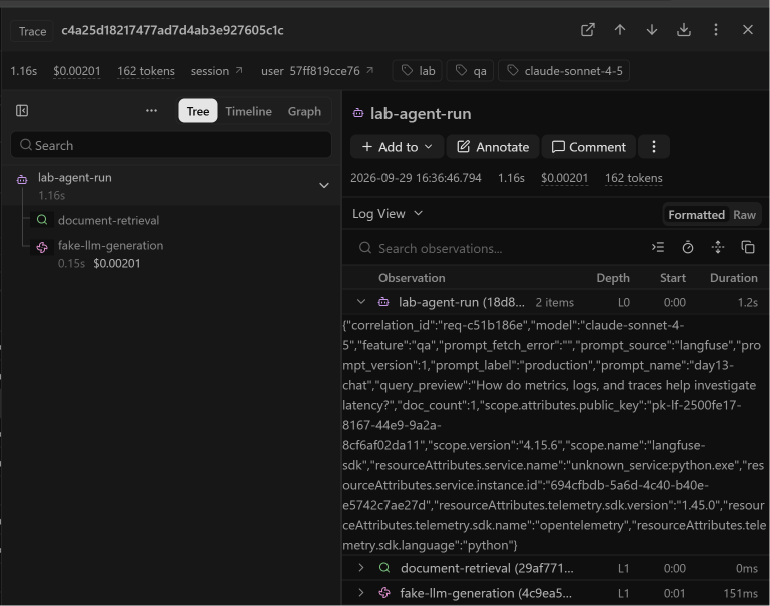
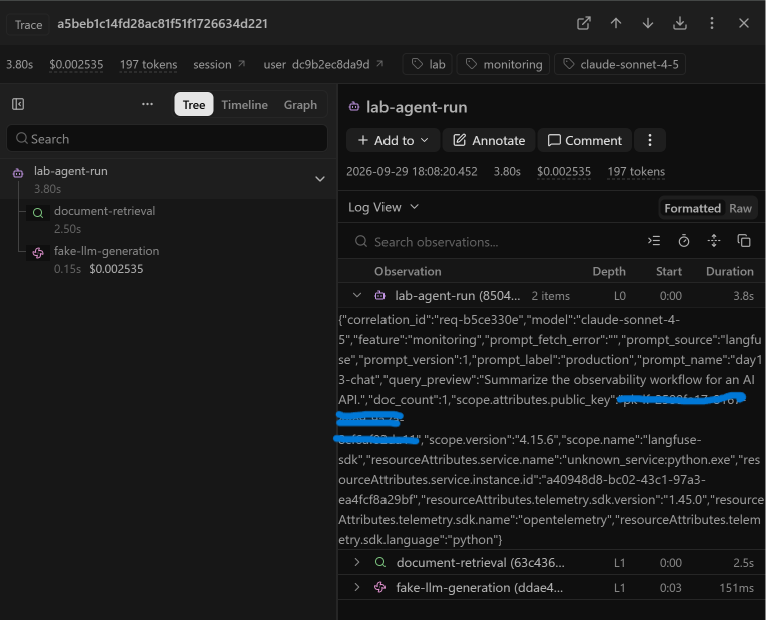
Complete CP4 submission report and evidence

diff --git a/submission/REPORT.md b/submission/REPORT.md
@@ -4,13 +4,13 @@
 
 ## 1. Thông tin học viên
 
-- **Họ và tên:**
-- **MSSV:**
+- **Họ và tên:** Nguyễn Anh Tú
+- **MSSV:** 2A202602881
 - **Lớp:** K4-L3A
-- **Repository URL:**
+- **Repository URL:** https://github.com/nguyenanhtu205/K4-L3-DAY13-NguyenAnhTu-2A202602881-Monitoring-LLMOps
 - **Commit SHA cuối:**
-- **Challenge ID:**
-- **Tên project Langfuse cá nhân:** `day13-k4-l3a-<MSSV>`
+- **Challenge ID:** day13-k4-l3a-monitoring-llmops-v1
+- **Tên project Langfuse cá nhân:** `day13-k4-l3a-2A202602881`
 
 ## 2. Evidence index
 
@@ -20,36 +20,37 @@
 
 | Evidence | Đường dẫn |
 |---|---|
-| API health CP0 | `evidence/00-health.png` |
-| Load test CP0 | `evidence/00-load-test.png` |
-| Pytest CP0 / CP1 | `evidence/01-pytest.png`; `evidence/01-pytest-cp1.txt` |
-| Log validator CP0 / CP1 | `evidence/02-log-validator.png`; `evidence/02-log-validator-cp1.txt` |
-| Dashboard validator | `evidence/03-dashboard-validator.png` (baseline); `evidence/03-dashboard-validator-cp2.png` (CP2) |
-| Structured log CP1 | `evidence/04-structured-log.txt` |
-| PII redaction CP1 | `evidence/05-pii-redaction.txt` |
-| Trace list CP0 | `evidence/06-trace-list.png` |
-| Trace list CP2 | `evidence/cp2-trace-list.png` |
-| CP2 traces and tree validation (10 traces) | `evidence/cp2-generated-traces.csv`; `evidence/cp2-trace-validation.txt` |
-| Trace waterfall screenshot | `evidence/07-trace-waterfall.png`; API verification: `evidence/cp2-trace-validation.txt` |
-| Trace metadata | `evidence/08-trace-metadata.png`; API verification: `evidence/cp2-trace-validation.txt`; `evidence/cp2-prompt-versioning.txt` |
-| Prompt versions and label runs | `evidence/09-prompt-versions.png`; `evidence/cp2-prompt-versioning.txt` |
-| Prompt rollback | `evidence/10-prompt-rollback.png`; `evidence/cp2-prompt-versioning.txt` |
-| Dashboard runtime | `evidence/11-dashboard-overview.png` (full dashboard); split screenshots: `evidence/11-dashboard-overview-top.png`, `evidence/11-dashboard-overview-bottom.png` |
-| Incident metric | `evidence/12-incident-metric.png` |
-| Incident log | `evidence/13-incident-log.png` |
-| Incident trace | `evidence/14-incident-trace.png` |
+| API health CP0 | [00-health.png](evidence/00-health.png) |
+| Load test CP0 | [00-load-test.png](evidence/00-load-test.png) |
+| Pytest CP0 / CP1 / final | [01-pytest.png](evidence/01-pytest.png); [01-pytest-cp1.txt](evidence/01-pytest-cp1.txt); [01-pytest-final.txt](evidence/01-pytest-final.txt) |
+| Log validator CP0 / CP1 / final | [02-log-validator.png](evidence/02-log-validator.png); [02-log-validator-cp1.txt](evidence/02-log-validator-cp1.txt); [02-log-validator-final.txt](evidence/02-log-validator-final.txt) |
+| Dashboard validator | [03-dashboard-validator.png](evidence/03-dashboard-validator.png) (baseline); [03-dashboard-validator-cp2.png](evidence/03-dashboard-validator-cp2.png) (CP2); [03-dashboard-validator-final.txt](evidence/03-dashboard-validator-final.txt) |
+| Structured log CP1 | [04-structured-log.txt](evidence/04-structured-log.txt) |
+| PII redaction CP1 | [05-pii-redaction.txt](evidence/05-pii-redaction.txt) |
+| Trace list CP0 | [06-trace-list.png](evidence/06-trace-list.png) |
+| Trace list CP2 | [cp2-trace-list.png](evidence/cp2-trace-list.png) |
+| CP2 traces and tree validation (10 traces) | [cp2-generated-traces.csv](evidence/cp2-generated-traces.csv); [cp2-trace-validation.txt](evidence/cp2-trace-validation.txt) |
+| Trace waterfall screenshot | [07-trace-waterfall.png](evidence/07-trace-waterfall.png); API verification: [cp2-trace-validation.txt](evidence/cp2-trace-validation.txt) |
+| Trace metadata | [08-trace-metadata.png](evidence/08-trace-metadata.png); API verification: [cp2-trace-validation.txt](evidence/cp2-trace-validation.txt); [cp2-prompt-versioning.txt](evidence/cp2-prompt-versioning.txt) |
+| Prompt versions and label runs | [09-prompt-versions.png](evidence/09-prompt-versions.png); [cp2-prompt-versioning.txt](evidence/cp2-prompt-versioning.txt) |
+| Prompt rollback | [10-prompt-rollback.png](evidence/10-prompt-rollback.png); [cp2-prompt-versioning.txt](evidence/cp2-prompt-versioning.txt) |
+| Dashboard runtime | [11-dashboard-overview.png](evidence/11-dashboard-overview.png) (full dashboard); split screenshots: [11-dashboard-overview-top.png](evidence/11-dashboard-overview-top.png), [11-dashboard-overview-bottom.png](evidence/11-dashboard-overview-bottom.png) |
+| Incident metric | [12-incident-metric.png](evidence/12-incident-metric.png) |
+| Incident log | [13-incident-log.png](evidence/13-incident-log.png) |
+| Incident trace | [14-incident-trace.png](evidence/14-incident-trace.png) |
+| CP3 challenge load and incident cleanup | [cp3-load-test.txt](evidence/cp3-load-test.txt); [cp3-incident-control.txt](evidence/cp3-incident-control.txt) |
 
 ## 3. Kết quả kỹ thuật
 
 | Nội dung | Baseline | Kết quả cuối | Nhận xét |
 |---|---|---|---|
-| `validate_logs.py` | 30/100; 61 records, 60 thiếu required fields/enrichment, 0 unique correlation IDs | | Baseline trước CP1; PII scrubber pass |
-| `validate_dashboard.py` | 6/6 panel hợp lệ | | Baseline |
-| `pytest` | 22 passed | | Baseline |
+| `validate_logs.py` | 30/100; 61 records, 60 thiếu required fields/enrichment, 0 unique correlation IDs | 100/100; 42 records, 21 correlation IDs, 0 thiếu required fields/enrichment, 0 PII leak | Kiểm tra CP4; output: `evidence/02-log-validator-final.txt` |
+| `validate_dashboard.py` | 6/6 panel hợp lệ | 6/6 panel hợp lệ | Kiểm tra CP4; output: `evidence/03-dashboard-validator-final.txt` |
+| `pytest` | 22 passed | 26 passed in 1.56s | Kiểm tra CP4; output: `evidence/01-pytest-final.txt` |
 | Số traces hợp lệ | 10 root traces hiển thị trong project cá nhân | 10 trace CP2 có root/retriever/generation hợp lệ | CP2 API verification: 10/10 cây span, metadata, prompt, usage/cost; input/output capture tắt |
-| Số PII leak | 0 phát hiện trong 21 records | | Kết quả baseline validator |
-| Latency P95 / TTFT P95 | | | |
-| Retrieval success rate | | | |
+| Số PII leak | 0 phát hiện trong 21 records | 0 trong 42 records ở lần validate CP4 | Challenge dùng query tổng hợp; không ghi PII thô |
+| Latency P95 / TTFT P95 | | 3568 ms / 50 ms trong cửa sổ challenge 10:12–11:12 UTC | P95 vượt threshold 3000 ms; evidence `12-incident-metric.png` |
+| Retrieval success rate | | 100% (5/5 challenge request thành công) | Output load test ghi nhận cả năm request HTTP 200; log mẫu tại `evidence/13-incident-log.png` xác nhận retrieval thành công cho request được điều tra |
 
 ## 4. Logging và PII
 
@@ -57,24 +58,26 @@
 - **Các metadata được ghi vào structured log:** `user_id_hash`, `session_id`, `feature`, `model`, `env` và `correlation_id` được bind trước `request_received`.
 - **Cách bảo đảm PII được scrub trước khi ghi:** `scrub_event` duyệt chuỗi ở mọi trường/nesting trước JSON renderer và file writer; mẫu được kiểm tra gồm email, điện thoại Việt Nam, CCCD và thẻ.
 - **Cách kiểm chứng kết quả:** CP0 baseline đạt 30/100; sau CP1, `validate_logs.py` đạt 100/100 trên 29 records, 14 correlation IDs, 0 thiếu trường/enrichment và 0 PII leak; `pytest` đạt 26 passed. Output và log mẫu nằm trong Evidence index.
+- **Source:** [app/middleware.py](../app/middleware.py), [app/main.py](../app/main.py), [app/logging_config.py](../app/logging_config.py), [app/pii.py](../app/pii.py), [tests/test_pii.py](../tests/test_pii.py).
 
 ## 5. Tracing và prompt versioning
 
-- **Cách xác nhận traces do chính tôi tạo trong project cá nhân:** Tự chạy `scripts/generate_traces.py` trong project `day13-k4-l3a-2A202602881`; API verification nằm tại `submission/evidence/cp2-trace-validation.txt`.
+- **Cách xác nhận traces do chính tôi tạo trong project cá nhân:** Tự chạy [scripts/generate_traces.py](../scripts/generate_traces.py) trong project `day13-k4-l3a-2A202602881`; ảnh danh sách hiện tên project tại [cp2-trace-list.png](evidence/cp2-trace-list.png), API verification tại [cp2-trace-validation.txt](evidence/cp2-trace-validation.txt).
 - **Cấu trúc root/retrieval/generation observations:** `lab-agent-run` là root; `document-retrieval` (retriever) và `fake-llm-generation` (generation) là child trực tiếp. Generation ghi model, prompt link, token usage và cost; các observation đều tắt input/output capture.
 - **Cách nối trace với log:** Dùng cùng `correlation_id` trong metadata trace và structured log. Trace IDs/correlation IDs của 10 CP2 traces nằm trong CSV evidence.
 - **Prompt name:** `day13-chat` (text prompt; giữ `Feature={{feature}}`, `Docs={{docs}}`, `Question={{message}}`).
 - **Version/label baseline:** v1, labels `baseline` và `production` sau rollback.
 - **Version/label candidate:** v2, label `candidate`; đã tạm chuyển `production` sang v2 rồi rollback về v1.
 - **Trace ID của mỗi version:** baseline v1 `41225bd14f7ac91f2fc611e18c290023`; candidate v2 `8605981930a7213c874ecd8c3790f9c7`; production v2 sau promote `06dcbc7b5317bd7f93867015bc59a4f7`; production v1 sau rollback `c4a25d18217477ad7d4ab3e927605c1c`. Cả bốn cùng dùng input kiểm tra giống nhau.
-- **Cách promote và rollback `production`:** Dùng `scripts/prompt_versions.py promote-v2`, xác nhận trace production version 2; sau đó `rollback-v1`, xác nhận label production trả về version 1. Evidence metadata: `submission/evidence/cp2-prompt-versioning.txt`.
+- **Cách promote và rollback `production`:** Dùng [scripts/prompt_versions.py](../scripts/prompt_versions.py) với `promote-v2`, xác nhận trace production version 2; sau đó `rollback-v1`, xác nhận label production trả về version 1. Evidence metadata: [cp2-prompt-versioning.txt](evidence/cp2-prompt-versioning.txt).
+- **Source và tests:** [app/agent.py](../app/agent.py), [app/prompt_management.py](../app/prompt_management.py), [tests/test_agent_prompt_trace.py](../tests/test_agent_prompt_trace.py), [scripts/generate_traces.py](../scripts/generate_traces.py).
 
 ## 6. Dashboard, SLO và alerts
 
-- **Dashboard và sáu panel:** Dashboard local đọc `data/logs.jsonl`, tự refresh 30 giây, cửa sổ 60 phút: latency P50/P95/P99 và TTFT P95; traffic; error breakdown/retrieval success; cost; tokens; quality proxy. Runtime screenshot: `submission/evidence/11-dashboard-overview.png`; chạy bằng `python scripts/dashboard.py --serve`.
-- **SLO và lý do chọn:** `fast_successful_requests` yêu cầu 99.5% request thành công trong ≤3000 ms trên cửa sổ 28 ngày; baseline CP1 latency ứng dụng khoảng 2.2 giây nên còn headroom, cần xác nhận với workload dài hạn.
+- **Dashboard và sáu panel:** Dashboard local đọc `data/logs.jsonl`, tự refresh 30 giây, cửa sổ 60 phút: latency P50/P95/P99 và TTFT P95; traffic; error breakdown/retrieval success; cost; tokens; quality proxy. Runtime screenshot: [11-dashboard-overview.png](evidence/11-dashboard-overview.png); chạy bằng `python scripts/dashboard.py --serve` ([source](../scripts/dashboard.py)).
+- **SLO và lý do chọn:** [`config/slo.yaml`](../config/slo.yaml) đặt `fast_successful_requests` yêu cầu 99.5% request thành công trong ≤3000 ms trên cửa sổ 28 ngày; baseline CP1 latency ứng dụng khoảng 2.2 giây nên còn headroom, cần xác nhận với workload dài hạn.
 - **Cách tính error budget:** 100% − 99.5% = 0.5% request xấu; tương đương tối đa 50 request không đạt trên 10,000 request trong cửa sổ SLO.
-- **Ba alert và runbook tương ứng:** P95 latency >3000 ms/5m (`docs/alerts.md#alert-1`); request failure rate >2%/5m (`#alert-2`); retrieval success <90%/5m (`#alert-3`). Cả ba gửi Slack `#llmops-alerts`, có severity và owner trong `config/alert_rules.yaml`.
+- **Ba alert và runbook tương ứng:** P95 latency >3000 ms/5m ([runbook 1](../docs/alerts.md#alert-1)); request failure rate >2%/5m ([runbook 2](../docs/alerts.md#alert-2)); retrieval success <90%/5m ([runbook 3](../docs/alerts.md#alert-3)). Cả ba gửi Slack `#llmops-alerts`, có severity và owner trong [`config/alert_rules.yaml`](../config/alert_rules.yaml). Dashboard source: [scripts/dashboard.py](../scripts/dashboard.py); contract: [config/dashboard.yaml](../config/dashboard.yaml).
 
 > CP2 có API verification cho trace/prompt, screenshot dashboard runtime và các ảnh Langfuse cho waterfall, metadata, prompt versions/labels và trạng thái rollback `production`.
 
@@ -85,28 +88,28 @@
 - **Triệu chứng từ metrics:** Panel latency hiển thị P95 `3568 ms` và P99 `3751 ms`, vượt threshold/SLO P95 `3000 ms`. Ảnh: `evidence/12-incident-metric.png`.
 - **Log line và correlation ID liên quan:** Chọn `response_sent` cho `req-b5ce330e`, feature `monitoring`, `latency_ms=3797`, timestamp `2026-09-29T11:08:24.251658Z`; request nhận lúc `11:08:20.140571Z`. Ảnh: `evidence/13-incident-log.png`.
 - **Trace ID và span gây ảnh hưởng:** Trace `a5beb1c14fd28ac81f51f1726634d221`, metadata cùng `correlation_id=req-b5ce330e`; root duration `3.80 s`, `document-retrieval` `2.50 s`, `fake-llm-generation` `0.15 s`. Retrieval là span chi phối latency. Ảnh: `evidence/14-incident-trace.png`.
-- **Root cause:** Challenge bật `rag_slow`; retrieval giả lập chờ 2.5 giây. Trace cho thấy retrieval mất 2.50 giây, trong khi generation mất 0.15 giây, phù hợp với log latency 3.797 giây và P95 vượt ngưỡng.
+- **Root cause:** Challenge bật `rag_slow`; retrieval giả lập chờ 2.5 giây trong [app/mock_rag.py](../app/mock_rag.py). Trace cho thấy retrieval mất 2.50 giây, trong khi generation mất 0.15 giây, phù hợp với log latency 3.797 giây và P95 vượt ngưỡng.
 - **Fix action:** Sau khi thu thập metric, log và trace, đã tắt incident qua `scripts/inject_incident.py --disable`; API xác nhận `rag_slow=false`, `tool_fail=false`, `cost_spike=false`.
 - **Preventive measure:** Giữ SLO/alert P95 latency, theo dõi duration riêng của retrieval, đặt timeout cho retrieval và dùng circuit breaker/fallback để tránh một backend chậm kéo dài toàn request.
 ## 8. Giải thích và tự đánh giá
 
-- **Một quyết định kỹ thuật quan trọng và lý do:**
-- **Một lỗi/blocker đã gặp:**
-- **Cách tìm nguyên nhân và xử lý:**
-- **Cách hiểu luồng Metrics → Logs → Traces:**
-- **Vai trò của prompt version, token/cost, SLO hoặc rollback trong vận hành LLM:**
-- **Điều quan trọng nhất đã học:**
-- **Hạn chế hoặc phần chưa hoàn thành, nếu có:**
+- **Một quyết định kỹ thuật quan trọng và lý do:** Truyền cùng `correlation_id` qua log và trace để lần theo một request; đồng thời tắt capture input/output và scrub PII trước khi ghi log để giữ khả năng điều tra mà không lưu nội dung nhạy cảm.
+- **Một lỗi/blocker đã gặp:** Lần bật challenge đầu tiên gặp `ConnectError` vì API chưa chạy ở `127.0.0.1:8000`. Khởi động Uvicorn trong terminal riêng rồi chạy lại injector và load test thì nhận HTTP 200.
+- **Cách tìm nguyên nhân và xử lý:** Bắt đầu từ latency P95 3568 ms vượt 3000 ms, chọn log `req-b5ce330e` có latency 3797 ms, rồi mở trace cùng correlation ID. Span retrieval mất 2.50 s so với generation 0.15 s, khớp với fault `rag_slow`; tắt incident sau khi lưu evidence.
+- **Cách hiểu luồng Metrics → Logs → Traces:** Metric chỉ ra thời điểm/triệu chứng; `correlation_id` định vị request trong log; trace chia request thành spans để xác định retrieval là phần gây chậm.
+- **Vai trò của prompt version, token/cost, SLO hoặc rollback trong vận hành LLM:** Prompt version/label cho biết request dùng cấu hình nào và hỗ trợ rollback; usage/cost giúp theo dõi chi phí từng generation; SLO và error budget định lượng mức latency/lỗi còn chấp nhận được.
+- **Điều quan trọng nhất đã học:** Không kết luận nguyên nhân từ metric đơn lẻ; cần nối metric, log và trace của cùng request trước khi chọn biện pháp xử lý.
+- **Hạn chế hoặc phần chưa hoàn thành, nếu có:** RAG và LLM trong lab là mô phỏng; metrics là dữ liệu lab, chưa chứng minh tải dài hạn. Alert rules có cấu hình Slack/runbook nhưng chưa tích hợp gửi cảnh báo vào Slack thật.
 
 ## 9. Checklist trước khi nộp
 
-- [ ] Kết quả và evidence thuộc commit SHA cuối.
-- [ ] Tất cả ảnh/output mở được bằng đường dẫn tương đối.
-- [ ] Incident evidence nối đúng metric → log → trace.
-- [ ] Trace/prompt evidence thuộc project Langfuse cá nhân và ảnh không lộ key/secret.
-- [ ] Repository chạy lại được theo README.
-- [ ] Không có secret, API key, PII thô hoặc evidence của người khác/lớp khác.
-- [ ] URL repo và commit SHA cuối đã được nộp trên LMS/Codelabs.
+- [x] Kết quả và evidence được đưa vào commit CP4.
+- [x] Các link evidence trong report dùng đường dẫn tương đối và đã được kiểm tra.
+- [x] Incident evidence nối metric → log → trace cùng `correlation_id`.
+- [x] Trace/prompt evidence thuộc project Langfuse cá nhân; public key trong ảnh metadata đã được che.
+- [x] Repository tests và validators chạy thành công trong môi trường `.venv`.
+- [x] Không đưa `.env`, `config/challenge.json`, PII thô hoặc evidence lớp khác vào commit.
+- [ ] URL repo và SHA nộp cuối đã được gửi lên LMS/Codelabs.
 
 
 
